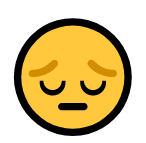
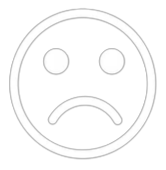
Added assets and refactored the UI

diff --git a/lib/views/home_page_view.dart b/lib/views/home_page_view.dart
@@ -84,9 +84,10 @@ class _HomePageViewState extends State<HomePageView> {
                 ),
               ),
             ),
-            BasicBox(
-              width: MediaQuery.of(context).size.width * 0.9,
-              content: const Center(
+            const BasicBox(
+              width: 440,
+              //height: 200,
+              content: Center(
                   child: Image(
                 image: AssetImage(
                   'assets/inspirational.png',
@@ -114,36 +115,30 @@ class _HomePageViewState extends State<HomePageView> {
                           child: Row(
                         mainAxisAlignment: MainAxisAlignment.spaceEvenly,
                         children: [
-                          IconButton(
-                              onPressed: () {
-                                Navigator.of(context)
-                                    .pushNamed(moodTrackerViewRoute);
-                              },
-                              icon: const Icon(
-                                Icons.face_2,
-                                size: 70,
-                                color: Colors.white,
-                              )),
-                          IconButton(
-                              onPressed: () {
-                                Navigator.of(context)
-                                    .pushNamed(moodTrackerViewRoute);
-                              },
-                              icon: const Icon(
-                                Icons.face_4,
-                                size: 70,
-                                color: Colors.white,
-                              )),
-                          IconButton(
-                              onPressed: () {
-                                Navigator.of(context)
-                                    .pushNamed(moodTrackerViewRoute);
-                              },
-                              icon: const Icon(
-                                Icons.face_5,
-                                size: 70,
-                                color: Colors.white,
-                              )),
+                          const SizedBox(
+                            height: 70,
+                            width: 70,
+                            child: Image(
+                              image: AssetImage("assets/happy.png"),
+                              color: Colors.white,
+                            ),
+                          ),
+                          const SizedBox(
+                            height: 70,
+                            width: 70,
+                            child: Image(
+                              image: AssetImage("assets/neutral.png"),
+                              color: Colors.white,
+                            ),
+                          ),
+                          const SizedBox(
+                            height: 70,
+                            width: 70,
+                            child: Image(
+                              image: AssetImage("assets/sad.png"),
+                              color: Colors.white,
+                            ),
+                          ),
                         ],
                       )),
                     ),
@@ -163,16 +158,15 @@ class _HomePageViewState extends State<HomePageView> {
                         fontSize: 20,
                         fontWeight: FontWeight.bold,
                       ),
-                      BasicBox(
-                        width: 200,
-                        height: 200,
-                        content: IconButton(
-                            onPressed: () {
-                              Navigator.of(context).pushNamed(journalViewRoute);
-                            },
-                            icon: const Icon(
-                              Icons.book_outlined,
-                              size: 100,
+                      InkWell(
+                        onTap: () {
+                          Navigator.of(context).pushNamed(journalViewRoute);
+                        },
+                        child: const BasicBox(
+                            width: 200,
+                            height: 200,
+                            content: Image(
+                              image: AssetImage("assets/journal.png"),
                               color: Colors.white,
                             )),
                       )
@@ -185,17 +179,15 @@ class _HomePageViewState extends State<HomePageView> {
                         fontSize: 20,
                         fontWeight: FontWeight.bold,
                       ),
-                      BasicBox(
-                        width: 200,
-                        height: 200,
-                        content: IconButton(
-                            onPressed: () {
-                              Navigator.of(context)
-                                  .pushNamed(meditateViewRoute);
-                            },
-                            icon: const Icon(
-                              Icons.bed_rounded,
-                              size: 100,
+                      InkWell(
+                        onTap: () {
+                          Navigator.of(context).pushNamed(meditateViewRoute);
+                        },
+                        child: const BasicBox(
+                            width: 200,
+                            height: 200,
+                            content: Image(
+                              image: AssetImage("assets/meditation.png"),
                               color: Colors.white,
                             )),
                       )

diff --git a/lib/views/mood_tracker/mood_tracker.dart b/lib/views/mood_tracker/mood_tracker.dart
@@ -10,6 +10,7 @@ import 'package:companionapp/services/mood_tracker_db/cloud_storage_mood_excepti
 import 'package:companionapp/services/mood_tracker_db/firbase_cloud_storage_mood.dart';
 import 'package:companionapp/utilities/dialogs/error_dialog.dart';
 import 'package:flutter/material.dart';
+import 'package:flutter/services.dart';
 import 'package:flutter_bloc/flutter_bloc.dart';
 
 import '../../assets/gradients/home_page_gradient.dart';
@@ -65,8 +66,11 @@ class _MoodTrackerState extends State<MoodTracker> {
             return Container(
               decoration: const BoxDecoration(gradient: homePageGradient),
               child: Scaffold(
-                backgroundColor: Colors.transparent,
+                backgroundColor: Colors.black45,
                 appBar: AppBar(
+                  systemOverlayStyle: const SystemUiOverlayStyle(
+                    statusBarColor: Colors.black,
+                  ),
                   title: const WhiteText(
                     "Track your Mood",
                     fontSize: 24,
@@ -101,6 +105,9 @@ class _MoodTrackerState extends State<MoodTracker> {
                       fontSize: 32,
                       fontWeight: FontWeight.bold,
                     ),
+                    const SizedBox(
+                      height: 20,
+                    ),
                     SizedBox(
                       height: 150,
                       child: ListView.builder(
@@ -121,18 +128,23 @@ class _MoodTrackerState extends State<MoodTracker> {
                                   selectedMood = moodList[index];
                                 });
                               },
-                              child: Column(
-                                children: [
-                                  Container(
-                                      height: 120,
-                                      color: moodColor,
-                                      child: Image(
-                                          image: AssetImage(moodList[index]))),
-                                  WhiteText(
-                                    extractName(moodList[index]),
-                                    fontSize: 20,
-                                  ),
-                                ],
+                              child: Padding(
+                                padding:
+                                    const EdgeInsets.fromLTRB(10.0, 0, 10.0, 0),
+                                child: Column(
+                                  children: [
+                                    Container(
+                                        height: 110,
+                                        color: moodColor,
+                                        child: Image(
+                                            image:
+                                                AssetImage(moodList[index]))),
+                                    WhiteText(
+                                      extractName(moodList[index]),
+                                      fontSize: 20,
+                                    ),
+                                  ],
+                                ),
                               ));
                         },
                       ),

diff --git a/lib/views/journal/journal_view.dart b/lib/views/journal/journal_view.dart
@@ -1,6 +1,7 @@
 import 'package:companionapp/assets/colors/app_colors.dart';
 import 'package:companionapp/assets/gradients/home_page_gradient.dart';
 import 'package:flutter/material.dart';
+import 'package:flutter/services.dart';
 
 import '../../constants/routes.dart';
 import '../../services/auth/auth_service.dart';
@@ -29,8 +30,11 @@ class _JournalViewState extends State<JournalView> {
     return Container(
       decoration: const BoxDecoration(gradient: homePageGradient),
       child: Scaffold(
-        backgroundColor: Colors.transparent,
+        backgroundColor: Colors.black45,
         appBar: AppBar(
+          systemOverlayStyle: const SystemUiOverlayStyle(
+            statusBarColor: Colors.black,
+          ),
           backgroundColor: appBarColor,
           title: const Text(
             "Journal",

diff --git a/lib/views/journal/create_update_note_view.dart b/lib/views/journal/create_update_note_view.dart
@@ -3,6 +3,7 @@ import 'package:companionapp/services/auth/auth_service.dart';
 import 'package:companionapp/services/cloud/cloud_note.dart';
 import 'package:companionapp/services/cloud/firbase_cloud_storage.dart';
 import 'package:companionapp/utilities/generics/get_arguments.dart';
+import 'package:flutter/services.dart';
 import 'package:share_plus/share_plus.dart';
 
 import '../../utilities/dialogs/cannot_share_empty_note_dialog.dart';
@@ -92,6 +93,9 @@ class _NewNoteViewState extends State<NewNoteView> {
   Widget build(BuildContext context) {
     return Scaffold(
       appBar: AppBar(
+        systemOverlayStyle: const SystemUiOverlayStyle(
+          statusBarColor: Colors.black,
+        ),
         title: const Text('New Note'),
         actions: [
           IconButton(

diff --git a/lib/services/mood_tracker_db/mood_image_contants.dart b/lib/services/mood_tracker_db/mood_image_contants.dart
@@ -1,6 +1,16 @@
-const String smile = "assets/smile.png";
+const String happy = "assets/happy.png";
+const String neutral = "assets/neutral.png";
 const String sad = "assets/sad.png";
 const String angry = "assets/angry.png";
 const String friends = "assets/friends.png";
 const String family = "assets/family.png";
 const String excercise = "assets/excercise.png";
+const String clean = "assets/clean.png";
+const String date = "assets/date.png";
+const String eat = "assets/eat.png";
+const String movies = "assets/movies.png";
+const String reading = "assets/reading.png";
+const String relax = "assets/relax.png";
+const String shop = "assets/shop.png";
+const String sports = "assets/sports.png";
+const String gaming = "assets/gaming.png";

diff --git a/lib/views/mood_tracker/moods_view.dart b/lib/views/mood_tracker/moods_view.dart
@@ -6,6 +6,7 @@ import 'package:companionapp/views/mood_tracker/line_chart.dart';
 import 'package:companionapp/views/mood_tracker/radial_chart.dart';
 import 'package:fl_chart/fl_chart.dart';
 import 'package:flutter/material.dart';
+import 'package:flutter/services.dart';
 
 import '../../constants/routes.dart';
 import '../../services/auth/auth_service.dart';
@@ -35,6 +36,9 @@ class _MoodsViewState extends State<MoodsView> {
       child: Scaffold(
         backgroundColor: Colors.transparent,
         appBar: AppBar(
+          systemOverlayStyle: const SystemUiOverlayStyle(
+            statusBarColor: Colors.black,
+          ),
           backgroundColor: appBarColor,
           title: const Text(
             "Logs",

diff --git a/lib/views/auth/register_view.dart b/lib/views/auth/register_view.dart
@@ -1,4 +1,5 @@
 import 'package:flutter/material.dart';
+import 'package:flutter/services.dart';
 import 'package:flutter_bloc/flutter_bloc.dart';
 import 'package:companionapp/services/auth/auth_exceptions.dart';
 import 'package:companionapp/services/auth/bloc/auth_bloc.dart';
@@ -47,7 +48,11 @@ class _RegisterViewState extends State<RegisterView> {
         }
       },
       child: Scaffold(
-        appBar: AppBar(title: const Text('Register')),
+        appBar: AppBar(
+            systemOverlayStyle: const SystemUiOverlayStyle(
+              statusBarColor: Colors.black,
+            ),
+            title: const Text('Register')),
         body: SizedBox(
           height: 300,
           width: 700,

diff --git a/lib/views/auth/verify_email_view.dart b/lib/views/auth/verify_email_view.dart
@@ -1,4 +1,5 @@
 import 'package:flutter/material.dart';
+import 'package:flutter/services.dart';
 import 'package:flutter_bloc/flutter_bloc.dart';
 import 'package:companionapp/services/auth/bloc/auth_bloc.dart';
 import 'package:companionapp/services/auth/bloc/auth_event.dart';
@@ -15,6 +16,9 @@ class _VerifyEmailViewState extends State<VerifyEmailView> {
   Widget build(BuildContext context) {
     return Scaffold(
       appBar: AppBar(
+        systemOverlayStyle: const SystemUiOverlayStyle(
+          statusBarColor: Colors.black,
+        ),
         title: const Text('Verify your E-mail'),
       ),
       body: Column(children: [

diff --git a/lib/views/auth/forgot_password_view.dart b/lib/views/auth/forgot_password_view.dart
@@ -1,4 +1,5 @@
 import 'package:flutter/material.dart';
+import 'package:flutter/services.dart';
 import 'package:flutter_bloc/flutter_bloc.dart';
 import 'package:companionapp/services/auth/bloc/auth_bloc.dart';
 import 'package:companionapp/services/auth/bloc/auth_event.dart';
@@ -48,6 +49,9 @@ class _ForgotPasswordViewState extends State<ForgotPasswordView> {
       },
       child: Scaffold(
         appBar: AppBar(
+          systemOverlayStyle: const SystemUiOverlayStyle(
+            statusBarColor: Colors.black,
+          ),
           title: const Text('Forgot Password'),
         ),
         body: Padding(

diff --git a/lib/views/auth/login_view.dart b/lib/views/auth/login_view.dart
@@ -1,4 +1,5 @@
 import 'package:flutter/material.dart';
+import 'package:flutter/services.dart';
 import 'package:flutter_bloc/flutter_bloc.dart';
 import 'package:companionapp/services/auth/auth_exceptions.dart';
 import 'package:companionapp/services/auth/bloc/auth_bloc.dart';
@@ -47,6 +48,9 @@ class _LoginViewState extends State<LoginView> {
       },
       child: Scaffold(
         appBar: AppBar(
+          systemOverlayStyle: const SystemUiOverlayStyle(
+            statusBarColor: Colors.black,
+          ),
           title: const Text('Login'),
         ),
         body: SizedBox(

diff --git a/lib/services/mood_tracker_db/cloud_mood.dart b/lib/services/mood_tracker_db/cloud_mood.dart
@@ -2,8 +2,21 @@ import 'package:cloud_firestore/cloud_firestore.dart';
 import 'package:companionapp/services/mood_tracker_db/cloud_storage_mood_constants.dart';
 import 'package:companionapp/services/mood_tracker_db/mood_image_contants.dart';
 
-const moodList = [smile, sad, angry];
-const activityList = [family, friends, excercise];
+const moodList = [happy, neutral, sad, angry];
+const activityList = [
+  family,
+  friends,
+  excercise,
+  clean,
+  date,
+  eat,
+  gaming,
+  movies,
+  reading,
+  relax,
+  shop,
+  sports
+];
 
 class CloudMood {
   final String documentId;

diff --git a/lib/views/meditate_view.dart b/lib/views/meditate_view.dart
@@ -54,7 +54,7 @@ class _MeditateViewState extends State<MeditateView> {
           return Container(
             decoration: const BoxDecoration(gradient: homePageGradient),
             child: Scaffold(
-              backgroundColor: Colors.transparent,
+              backgroundColor: Colors.black45,
               appBar: AppBar(
                 systemOverlayStyle: const SystemUiOverlayStyle(
                   statusBarColor: Colors.black,
